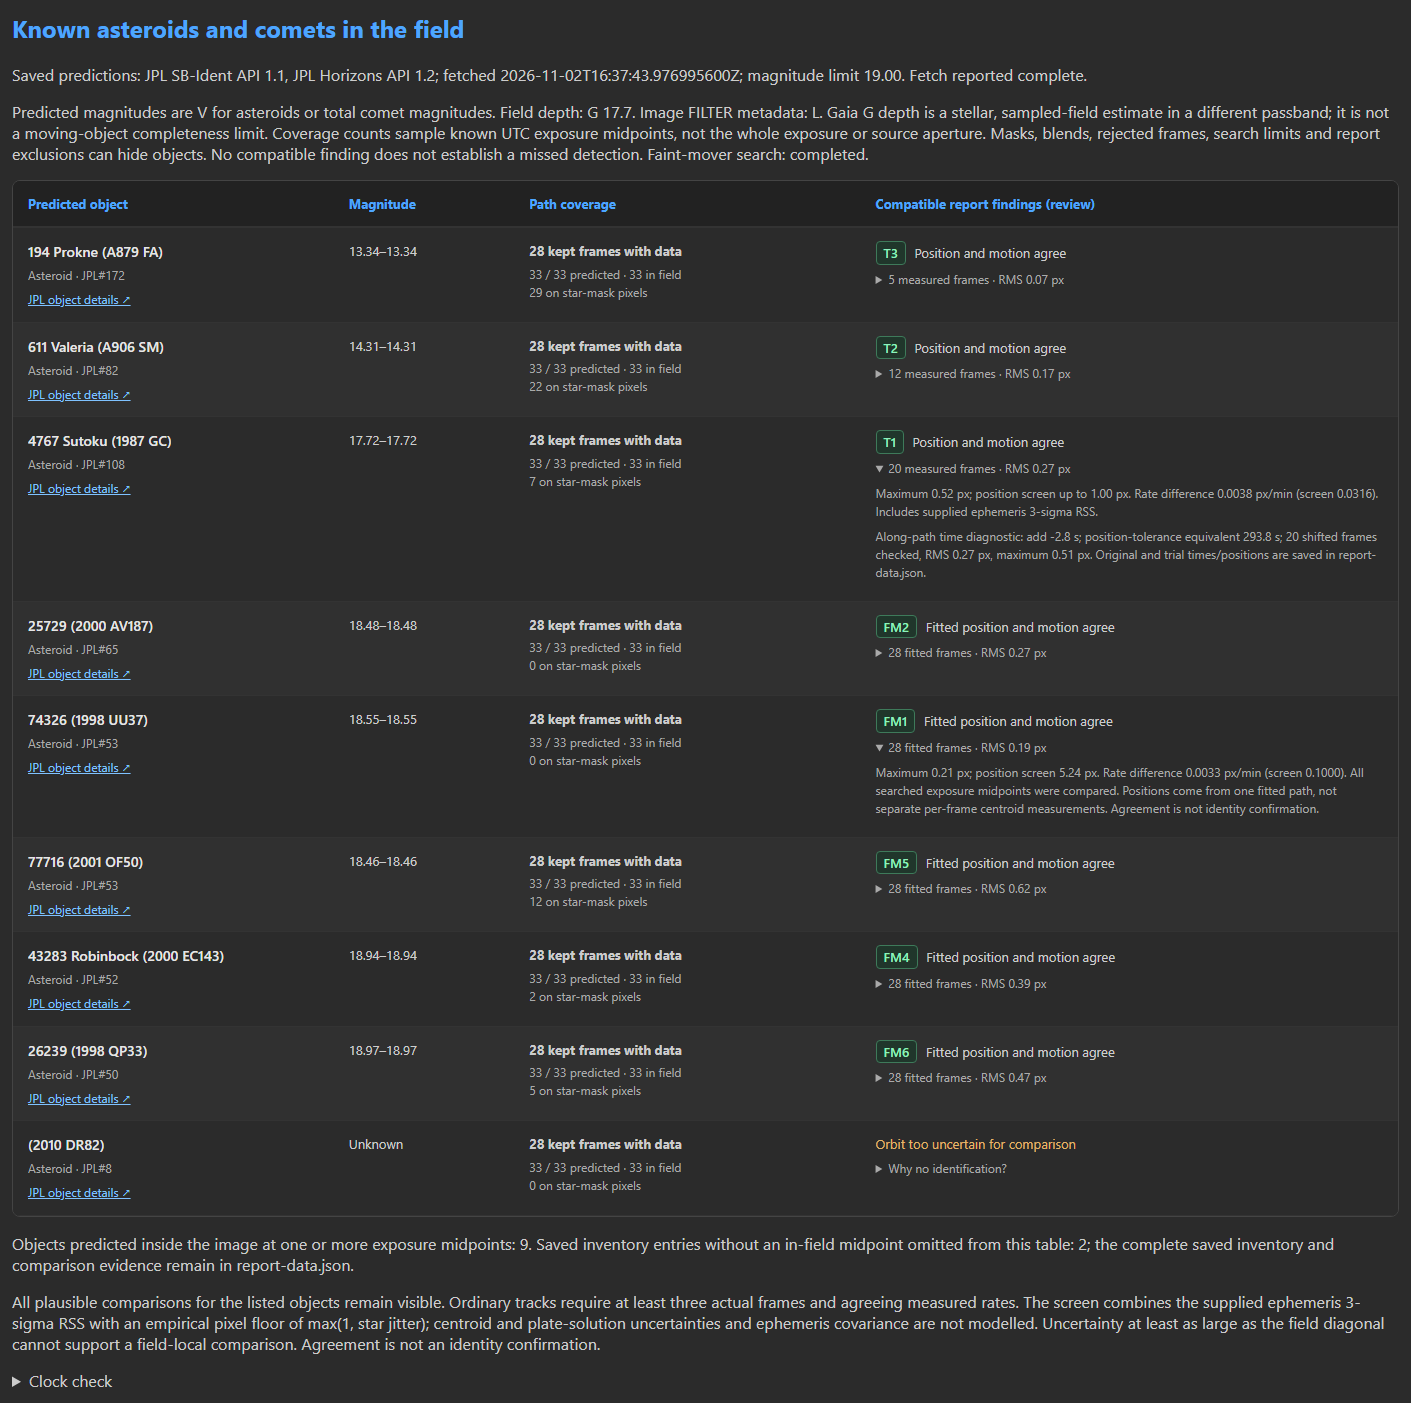
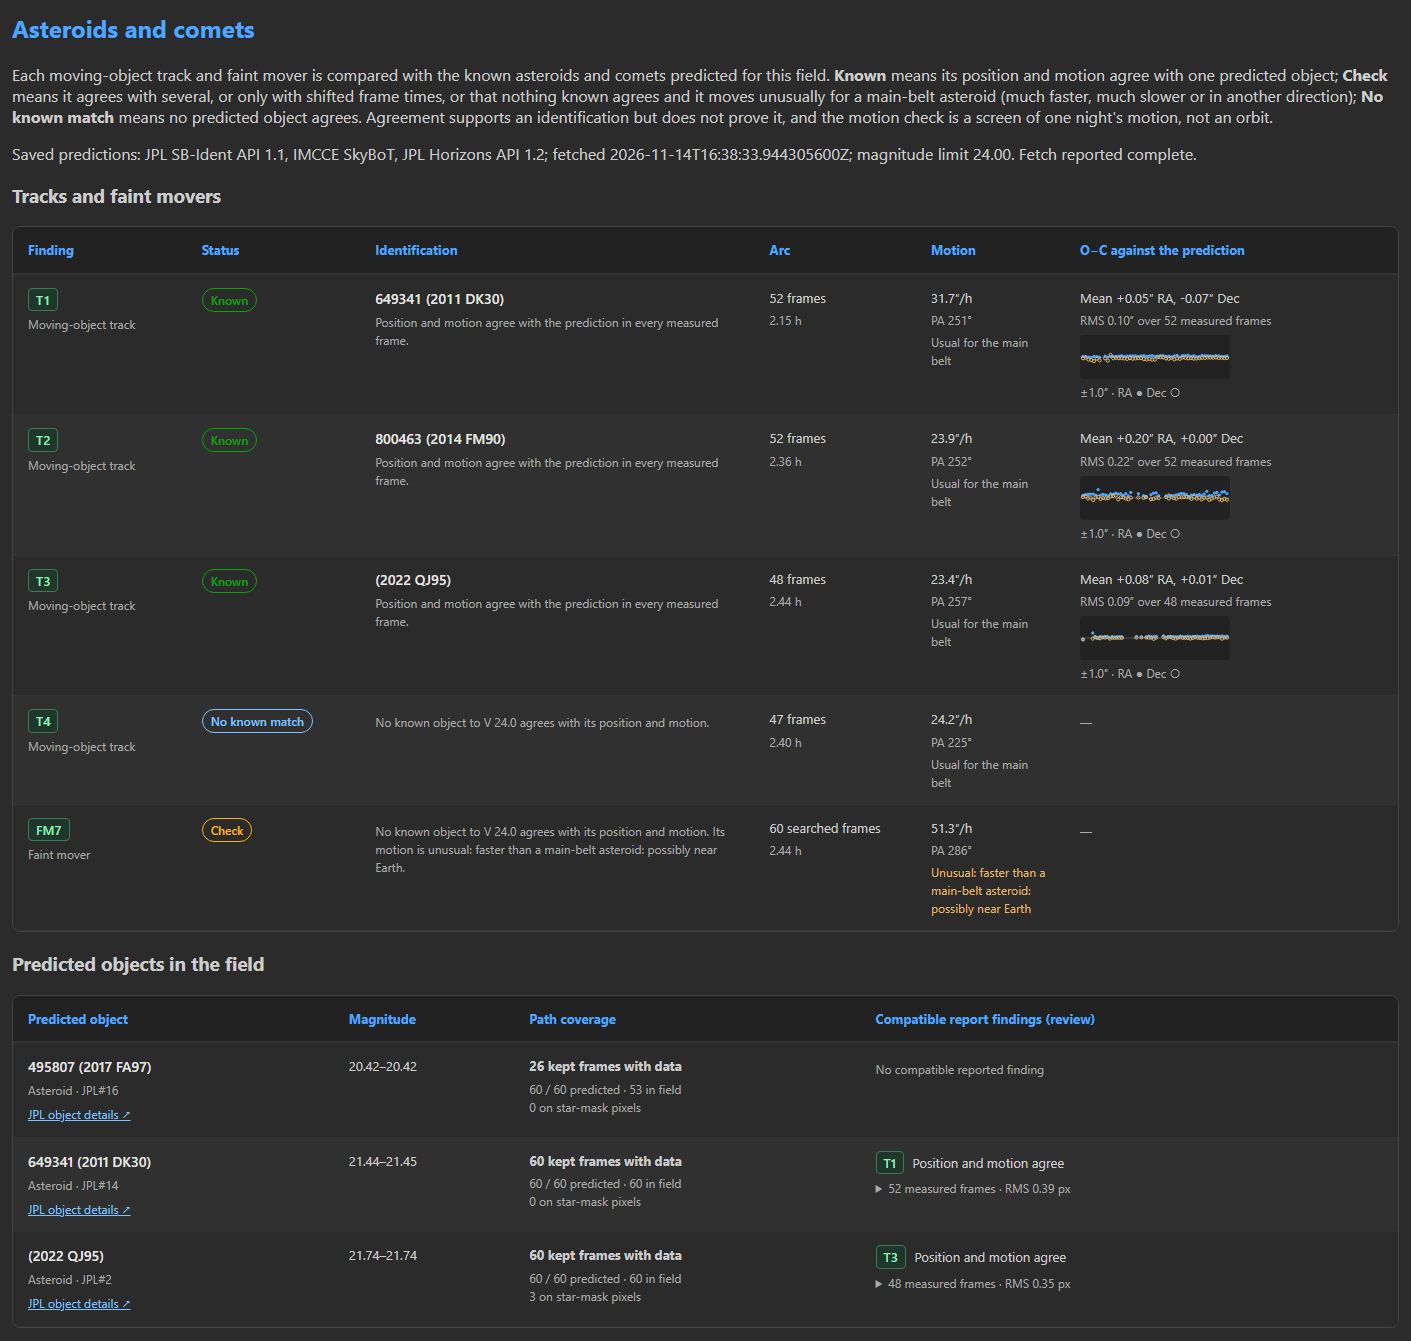
Update docs

diff --git a/MANUAL.md b/MANUAL.md
@@ -1,6 +1,6 @@
 # SpacePixels User Manual
 
-<sub><i>Many thanks to Klangwolke at Cloudynights and Duncan Warren for providing some of the test data used in this manual.</i></sub>
+<sub><i>Many thanks to Klangwolke at Cloudynights and Duncan Warren for providing some of the test data used in this manual. DECam data from the [NSF NOIRLab Astro Data Archive](https://astroarchive.noirlab.edu/) were used to test and improve SpacePixels.</i></sub>
 
 SpacePixels searches your astrophotography exposures for moving objects and brightness changes. Give it a sequence of aligned sub-exposures to obtain an HTML report with candidate tracks, crops, animations, maps and optional variable-star light curves. Catalogue searches help investigate candidates; a detection or catalogue association is not, by itself, a confirmed discovery.
 
@@ -786,6 +786,24 @@ The **Motion** column also compares each object's motion with that of a main-bel
 
 The second table, **Predicted objects in the field**, shows predicted magnitude ranges, sampled path coverage, kept frames with data, star-mask intersections, ordinary-track comparisons and the existing FM fitted-path comparisons. Predicted V or comet total magnitudes and the sampled stellar Gaia G field depth have different passbands and detection requirements. An object with no compatible reported finding is not a measured completeness failure: blends, masks, aperture coverage, rejected frames, disabled or truncated searches, catalogue limits and omitted report categories can matter.
 
+![The Asteroids and comets section of a DECam report: known, unmatched and Check findings, and the predicted objects in the field](docs/images/manual/report-known-asteroids.png)
+
+This excerpt comes from a 60-frame public DECam session (120-second exposures; the frames reach about *G* 23.8 and the predictions were fetched to *V* 24.0 from JPL and SkyBoT); the rows of the other findings are left out. Three ordinary tracks are known main-belt asteroids, with an O−C scatter of 0.09–0.22″: **T1** (649341, 2011 DK30), **T2** (800463, 2014 FM90, *V* 23.2) and **T3** (2022 QJ95). **T4** moves like a main-belt asteroid but agrees with no known object, and MPChecker finds none within 1′ either. The faint mover **FM7** moves at 51″/h where a main-belt asteroid there would move 22–29″/h, so it is marked **Check**. In the second table, 495807 (2017 FA97) crossed only part of the frames and has no compatible finding in this run.
+
+The table includes objects predicted inside the image at one or more exposure midpoints across the session. The saved fetch also allows a 5% field border and extra time around the session, so its total can be larger than the in-field count. Entries without an in-field midpoint are omitted from the table; the complete inventory and comparison evidence remain in `report-data.json`. This sampled coverage does not test every instant within an exposure.
+
+Each object has a **JPL object details** link built from its saved number or designation; opening it needs an internet connection, but generating the report needs no additional fetch. Finding badges open the corresponding report card, and expandable evidence keeps the measured distances and clock diagnostics available. Moving-object track cards show **Possible identification** with the compatible asteroid or comet names when position and motion agree at the recorded times. Competing names remain explicitly ambiguous; agreement that requires a trial time shift is shown only in the comparison table.
+
+Ordinary-track comparisons require at least three actual centroids at known UTC exposure midpoints, positional agreement and agreeing rates. The displayed screen combines the supplied ephemeris 3-sigma RSS with an empirical pixel floor of the larger of one pixel and star jitter. Missing ephemeris uncertainty is labelled explicitly. Centroid and plate uncertainties and ephemeris covariance are not modelled, so these are review comparisons, not confirmed identities. All plausible matches stay visible, with their measured residuals saved in `report-data.json`.
+
+When supplied ephemeris uncertainty is at least as large as the frame diagonal, the table says **Orbit too uncertain for comparison** and retains the supplied scale in its explanation. Such an uncertainty cannot distinguish ordinary tracks within this field and supplies neither a track identification nor a clock comparison. The predicted object remains in the inventory; its uncertainty is not replaced by an artificially precise value.
+
+The table's **Clock check** considers along-path time offsets only when shifted positions can be checked inside the saved ephemeris samples. A common suggestion needs at least two independent, unambiguous objects with supplied uncertainties, agreeing offset signs and overlapping review intervals. Positive seconds mean **add** to the recorded capture time. The position-tolerance equivalent is not a statistical clock-error bar. WCS, centroid, observer-site or orbit errors can imitate a time offset; large offsets outside the saved prediction span cannot be checked. No frame timestamp is corrected automatically. [JPL documents the supplied formal 3-sigma quantities](https://ssd.jpl.nasa.gov/horizons/manual.html#observer-table).
+
+New Horizons fetches save samples from fourteen hours before the first exposure to fourteen hours after the last, so the clock check can verify common local-time/UTC mistakes without extrapolation. Object discovery and the field-crossing test still use the observing span and its original motion margin; this does not search every possible field at every time offset. Refetch predictions to add the extended samples to an older cache. A field-search fallback without Horizons still has no supplied positional uncertainty and cannot establish the common-clock diagnostic.
+
+A clock comparison also needs observed and predicted displacement greater than twice its positional review tolerance over the measured track. The report saves original midpoint times, trial prediction times, observed/predicted pixel positions and residuals for both the nominal and shifted comparison. Shifted RMS and maximum separation are shown beside the suggested offset. This is review evidence; the original timestamps stay intact.
+
 #### Reporting to the Minor Planet Center
 
 **Asteroids & Comets…** in **4 Detect**, under the last report, opens a window on that report's moving objects (for an iterative run, choose the report folder of one pass). It works in four steps: **Identify**, **Measure**, **Check** and **Export**.
@@ -809,24 +827,6 @@ The second table, **Predicted objects in the field**, shows predicted magnitude 
 The positions need the plate correction fitted against Gaia DR3 (fetch the sky catalogue on the plate-solved session): that fit ties them to the catalogue named in the file. Each uncertainty combines the centroid error, from the detection's size and signal-to-noise, with the plate fit's scatter. On a DECam session, three known asteroids reduced this way came within 0.07–0.17″ RMS of their JPL predictions. A faint mover is too faint for single frames, so its positions in the list are points of its fitted path, not measurements. **Measure in sub-stacks** splits its frames in time order into three groups, each frame used once as the MPC requires, stacks each group along the motion after subtracting the fixed stars, and measures the centroid in each; these become its observations, noted K (stacked) in the file. Each sub-stack must show the object clearly (signal-to-noise of at least 5, with the centroid near the path); otherwise the faint mover is marked **Weak** and cannot be exported, since the MPC asks not to report marginal detections. On the DECam session, FM1 gave three clear sub-stacks (signal-to-noise 26–32) within 0.03″ of a straight line.
 
 Reports written before version 2026.11-03 lack each detection's size and signal-to-noise, and the statuses. The window opens them for review, sub-stacks and orbits, says so under its title, and does not export their tracks, whose uncertainties would count only the plate error: detect again to export them.
-
-![Predicted objects in the field, comparing predicted paths with detected tracks and faint movers](docs/images/manual/report-known-asteroids.png)
-
-In this 61-megapixel session (field depth *G* 17.7, predictions fetched to *V* 19.0), the table lists nine asteroids predicted inside the field: the three brighter ones (*V* 13.3–17.7) match the ordinary moving-object tracks **T3** (194 Prokne), **T2** (611 Valeria) and **T1** (4767 Sutoku) within 0.07–0.27 px RMS, the five fainter ones below the single-frame field depth (*V* 18.46–18.97) agree with the fitted paths of faint-mover candidates **FM2**, **FM1**, **FM5**, **FM4** and **FM6** within 0.19–0.62 px RMS across all 28 kept frames, and **(2010 DR82)** is marked **Orbit too uncertain for comparison** because its formal ephemeris uncertainty exceeds the field diagonal.
-
-The table includes objects predicted inside the image at one or more exposure midpoints across the session. The saved fetch also allows a 5% field border and extra time around the session, so its total can be larger than the in-field count. Entries without an in-field midpoint are omitted from the table; the complete inventory and comparison evidence remain in `report-data.json`. This sampled coverage does not test every instant within an exposure.
-
-Each object has a **JPL object details** link built from its saved number or designation; opening it needs an internet connection, but generating the report needs no additional fetch. Finding badges open the corresponding report card, and expandable evidence keeps the measured distances and clock diagnostics available. Moving-object track cards show **Possible identification** with the compatible asteroid or comet names when position and motion agree at the recorded times. Competing names remain explicitly ambiguous; agreement that requires a trial time shift is shown only in the comparison table.
-
-Ordinary-track comparisons require at least three actual centroids at known UTC exposure midpoints, positional agreement and agreeing rates. The displayed screen combines the supplied ephemeris 3-sigma RSS with an empirical pixel floor of the larger of one pixel and star jitter. Missing ephemeris uncertainty is labelled explicitly. Centroid and plate uncertainties and ephemeris covariance are not modelled, so these are review comparisons, not confirmed identities. All plausible matches stay visible, with their measured residuals saved in `report-data.json`.
-
-When supplied ephemeris uncertainty is at least as large as the frame diagonal, the table says **Orbit too uncertain for comparison** and retains the supplied scale in its explanation. Such an uncertainty cannot distinguish ordinary tracks within this field and supplies neither a track identification nor a clock comparison. The predicted object remains in the inventory; its uncertainty is not replaced by an artificially precise value.
-
-The table's **Clock check** considers along-path time offsets only when shifted positions can be checked inside the saved ephemeris samples. A common suggestion needs at least two independent, unambiguous objects with supplied uncertainties, agreeing offset signs and overlapping review intervals. Positive seconds mean **add** to the recorded capture time. The position-tolerance equivalent is not a statistical clock-error bar. WCS, centroid, observer-site or orbit errors can imitate a time offset; large offsets outside the saved prediction span cannot be checked. No frame timestamp is corrected automatically. [JPL documents the supplied formal 3-sigma quantities](https://ssd.jpl.nasa.gov/horizons/manual.html#observer-table).
-
-New Horizons fetches save samples from fourteen hours before the first exposure to fourteen hours after the last, so the clock check can verify common local-time/UTC mistakes without extrapolation. Object discovery and the field-crossing test still use the observing span and its original motion margin; this does not search every possible field at every time offset. Refetch predictions to add the extended samples to an older cache. A field-search fallback without Horizons still has no supplied positional uncertainty and cannot establish the common-clock diagnostic.
-
-A clock comparison also needs observed and predicted displacement greater than twice its positional review tolerance over the measured track. The report saves original midpoint times, trial prediction times, observed/predicted pixel positions and residuals for both the nominal and shifted comparison. Shifted RMS and maximum separation are shown beside the suggested offset. This is review evidence; the original timestamps stay intact.
 
 Stars are moved from the Gaia epoch (2016) to the date of each frame. Only the sky coordinates of the field are sent to the services. SIMBAD is asked at CDS in Strasbourg, then at Harvard and IDIA. Gaia stars and the faint field-depth patches are asked of VizieR, then the ESA Gaia archive, then ARI Heidelberg. Variable stars are asked of VizieR, then the Harvard and IDIA copies. A copy that does not answer in time, cannot be reached, or answers HTTP 404 is not asked again during that fetch. A query error, including a full queue, is asked again. The observing site is never sent.
 

diff --git a/README.md b/README.md
@@ -100,6 +100,8 @@ Many thanks to [Kumar](https://github.com/chvvkumar) for providing plenty of dat
 
 Many thanks to Austral Kiwi at Cloudynights for providing data.
 
+DECam data from the [NSF NOIRLab Astro Data Archive](https://astroarchive.noirlab.edu/) were used to test and improve SpacePixels.
+
 **Check out sample reports.**
 
 <a href="https://startales.eu/various_files/detections_20261107_141108/detection_report.html" target="_blank">SpacePixels Report (Demonstrating digital tracking - 10 faint asteroids detected) - version 2026.11-01</a><br/>
